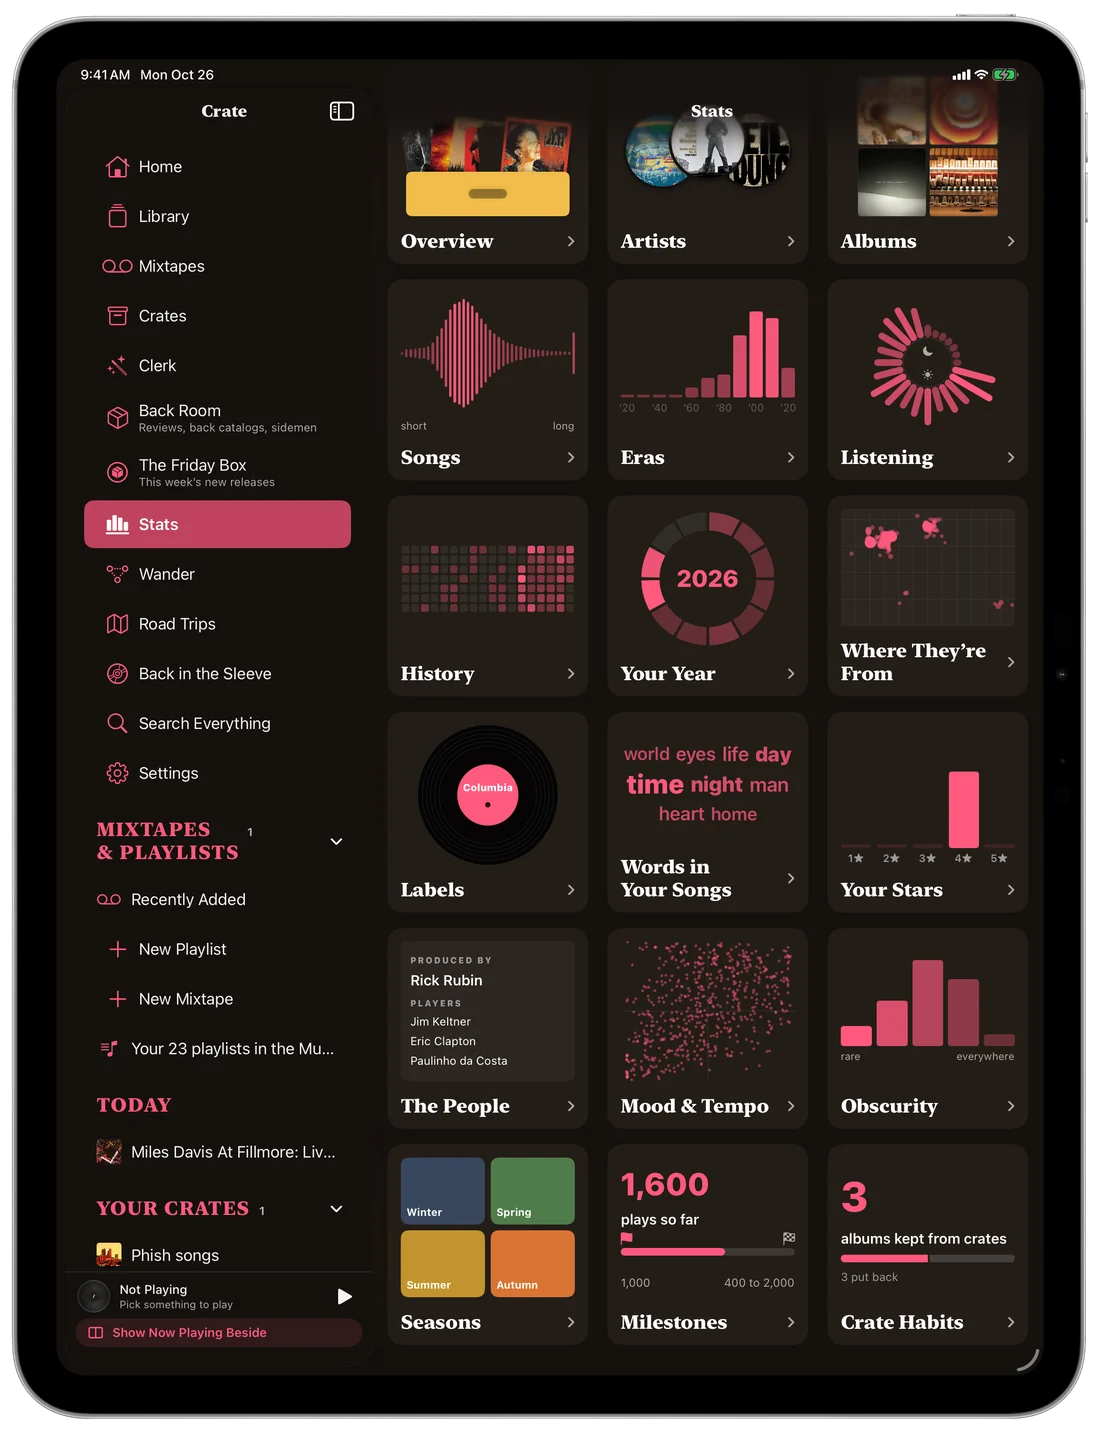
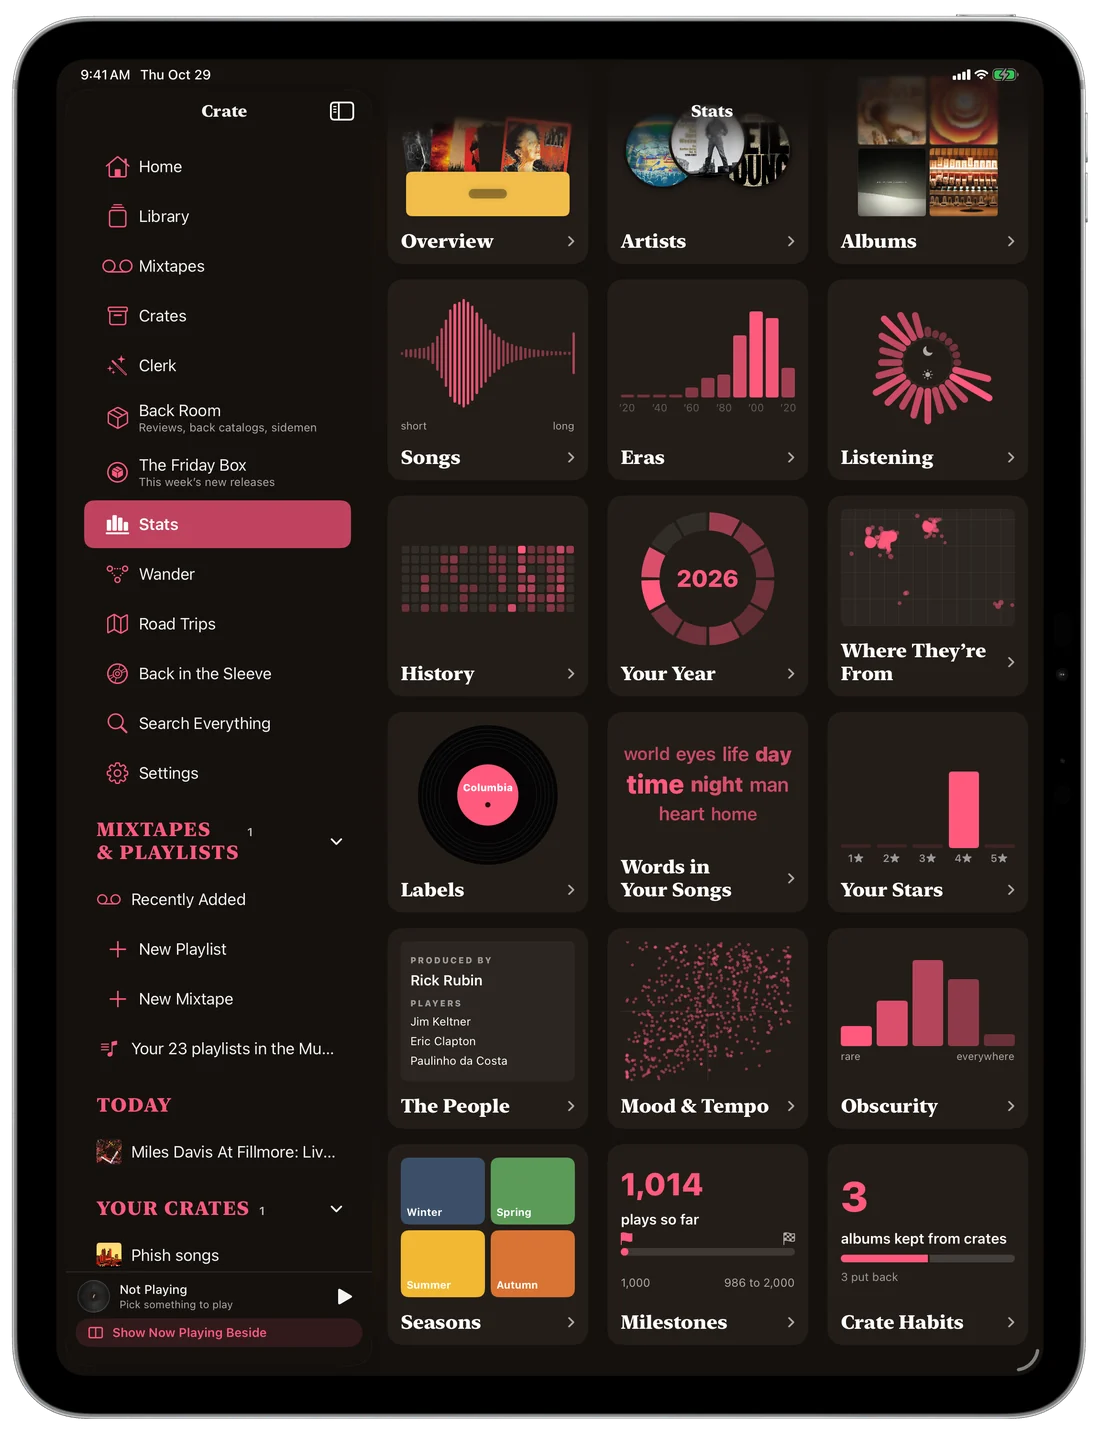
Stats: fresh pictures, and the headings that dress for each look

diff --git a/index.html b/index.html
@@ -332,7 +332,7 @@
       <div class="copy">
         <div class="label">Your library, counted</div>
         <h2>Eighteen ways to see your library.</h2>
-        <p>Stats is a wall of eighteen sleeves, each drawn from your own albums: the hours you listen as a clock, your year as a ring, your artists' hometowns as lights on a map, the label you own most on a record, the words your songs sing most, your seasons, your milestones, the albums almost nobody else plays. Tap Last Week, 30 Days or All Time to change what's counted. Tap a town, a label or a word and Crate plans a road trip through it.</p>
+        <p>Stats is a wall of eighteen sleeves, each drawn from your own albums: the hours you listen as a clock, your year as a ring, your artists' hometowns as lights on a map, the label you own most on a record, the words your songs sing most, your seasons, your milestones, the albums almost nobody else plays. Choose anything from Last Week to All Time to change what's counted. Tap a town, a label or a word and Crate plans a road trip through it. And every section dresses for your look, from a record-shop divider card to late-night neon.</p>
         <p>Open History for every play, year by year, down to the song: a year, then a month, then a day, and each song you played and when.</p>
         <div class="nums" aria-label="Figures from the library shown in these screenshots">
           <div class="num"><b>18</b><span>sections</span></div>
